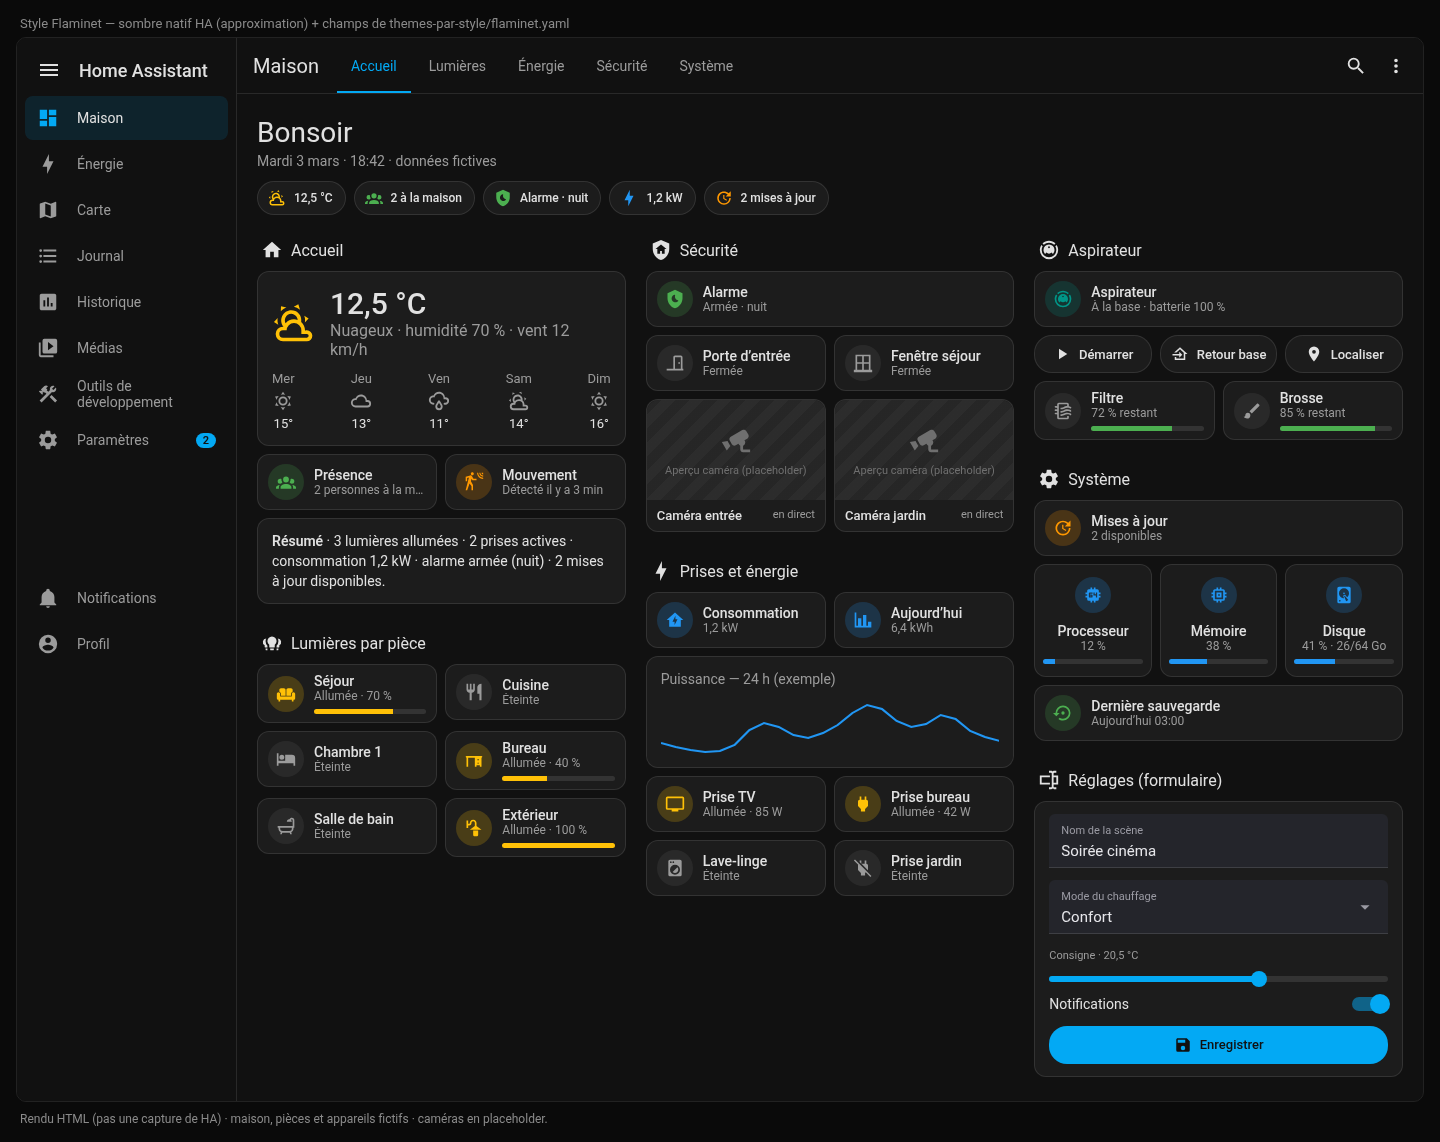
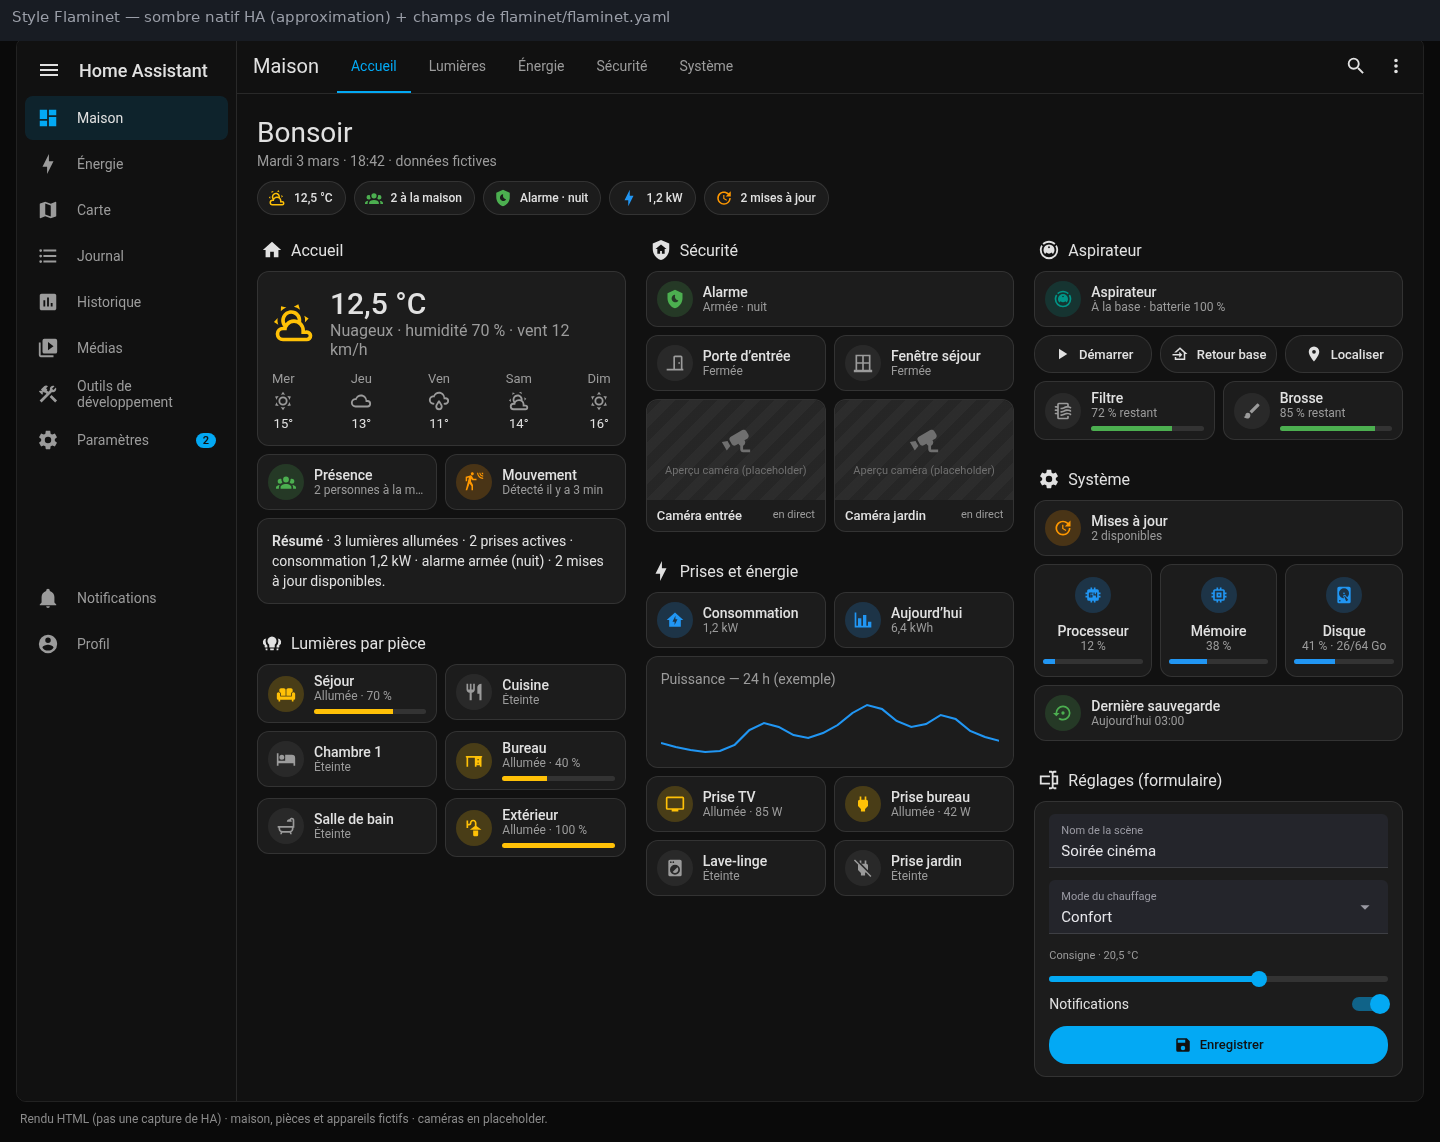
Anonymiser les entity_id des dashboards d'exemple (v1.2.1)
Remplace les noms d'entités trop proches de l'installation d'origine
par des identifiants neutres de démo, harmonise les chemins de navigation
(/dashboard-exemple), nettoie l'en-tête Flaminet et les légendes PNG.

Changed region(s): [[0.0, 0.0, 1.0, 0.0613]]

diff --git a/flaminet/README.md b/flaminet/README.md
@@ -33,7 +33,7 @@ Snippet associé (commun) : [commun/snippets/champs-sombres-ha2026.yaml](../comm
 1. Copie [`flaminet.yaml`](flaminet.yaml) dans `/config/themes/`. Si tu as installé le dépôt par HACS, saute cette étape : `themes/ha-themes.yaml` contient déjà `flaminet`.
 2. `configuration.yaml` : `frontend: themes: !include_dir_merge_named themes` (voir [commun/snippets/configuration-frontend.yaml](../commun/snippets/configuration-frontend.yaml)). card-mod n'est pas nécessaire pour le thème.
 3. Redémarre HA (ou `frontend.reload_themes`), puis choisis `flaminet` dans ton profil (mode sombre).
-4. Dashboard : colle [`dashboards/flaminet-natif.yaml`](dashboards/flaminet-natif.yaml) dans l'éditeur de configuration brute. Remplace ensuite les entités par les tiennes et adapte `/dashboard-maison`.
+4. Dashboard : colle [`dashboards/flaminet-natif.yaml`](dashboards/flaminet-natif.yaml) dans l'éditeur de configuration brute. Remplace ensuite les entités par les tiennes et adapte `/dashboard-exemple`.
 
 ## Détail du thème
 

diff --git a/nuit-flat/README.md b/nuit-flat/README.md
@@ -59,7 +59,7 @@ captures/                                   aperçus
    - Ne charge card-mod **qu'une fois**. S'il figure aussi dans Paramètres → Tableaux de bord → Ressources, retire-le de là. Sinon, le journal affiche des erreurs « already defined ».
 3. Police Inter : copie [`www/nuit-flat/inter-local.js`](www/nuit-flat/inter-local.js) dans `/config/www/nuit-flat/`, puis les polices dans `/config/www/fonts/` ([police-inter.md](police-inter.md)).
 4. Redémarre HA, puis choisis `nuit_flat` dans ton profil (mode sombre).
-5. Dashboard : colle [`dashboards/nuit-flat-maison.yaml`](dashboards/nuit-flat-maison.yaml) dans l'éditeur de configuration brute. Remplace ensuite les entités par les tiennes et adapte `/dashboard-maison`.
+5. Dashboard : colle [`dashboards/nuit-flat-maison.yaml`](dashboards/nuit-flat-maison.yaml) dans l'éditeur de configuration brute. Remplace ensuite les entités par les tiennes et adapte `/dashboard-exemple`.
 
 ## Détail du thème
 

diff --git a/README.md b/README.md
@@ -85,7 +85,7 @@ Copie le thème voulu (`nuit-flat/nuit-flat.yaml` ou `flaminet/flaminet.yaml`) d
 2. Ouvre-le → ✎ → ⋮ → **Éditeur de configuration brute**.
 3. Colle le fichier `<style>/dashboards/…yaml` voulu, puis enregistre.
 4. Remplace les `entity_id` par les tiens.
-5. Adapte les `navigation_path` et `back_path` à l'URL de **ton** dashboard. Les exemples supposent `/dashboard-maison`.
+5. Adapte les `navigation_path` et `back_path` à l'URL de **ton** dashboard. Les exemples supposent `/dashboard-exemple`.
 
 Les modèles button-card sont déjà inclus dans chaque dashboard. Les fichiers `<style>/button-card-templates/` servent à les réutiliser ailleurs : colle-les sous la clé `button_card_templates:`.
 

diff --git a/CHANGELOG.md b/CHANGELOG.md
@@ -2,6 +2,13 @@
 
 Format inspiré de [Keep a Changelog](https://keepachangelog.com/fr/1.1.0/), versions selon [SemVer](https://semver.org/lang/fr/).
 
+## [1.2.1] — à publier
+
+### Modifié
+- Dashboards d'exemple [`flaminet-natif.yaml`](flaminet/dashboards/flaminet-natif.yaml) et [`nuit-flat-maison.yaml`](nuit-flat/dashboards/nuit-flat-maison.yaml) : `entity_id` et chemins de navigation remplacés par des noms neutres de démo (plus de noms évoquant l'installation d'origine).
+- En-tête du dashboard Flaminet : retrait des références internes « 9.0 Flaminet » et `/dashboard-maison`.
+- Légendes des captures PNG : chemin `themes-par-style/…` remplacé par `nuit-flat/` et `flaminet/`.
+
 ## [1.2.0]
 
 ### Modifié
